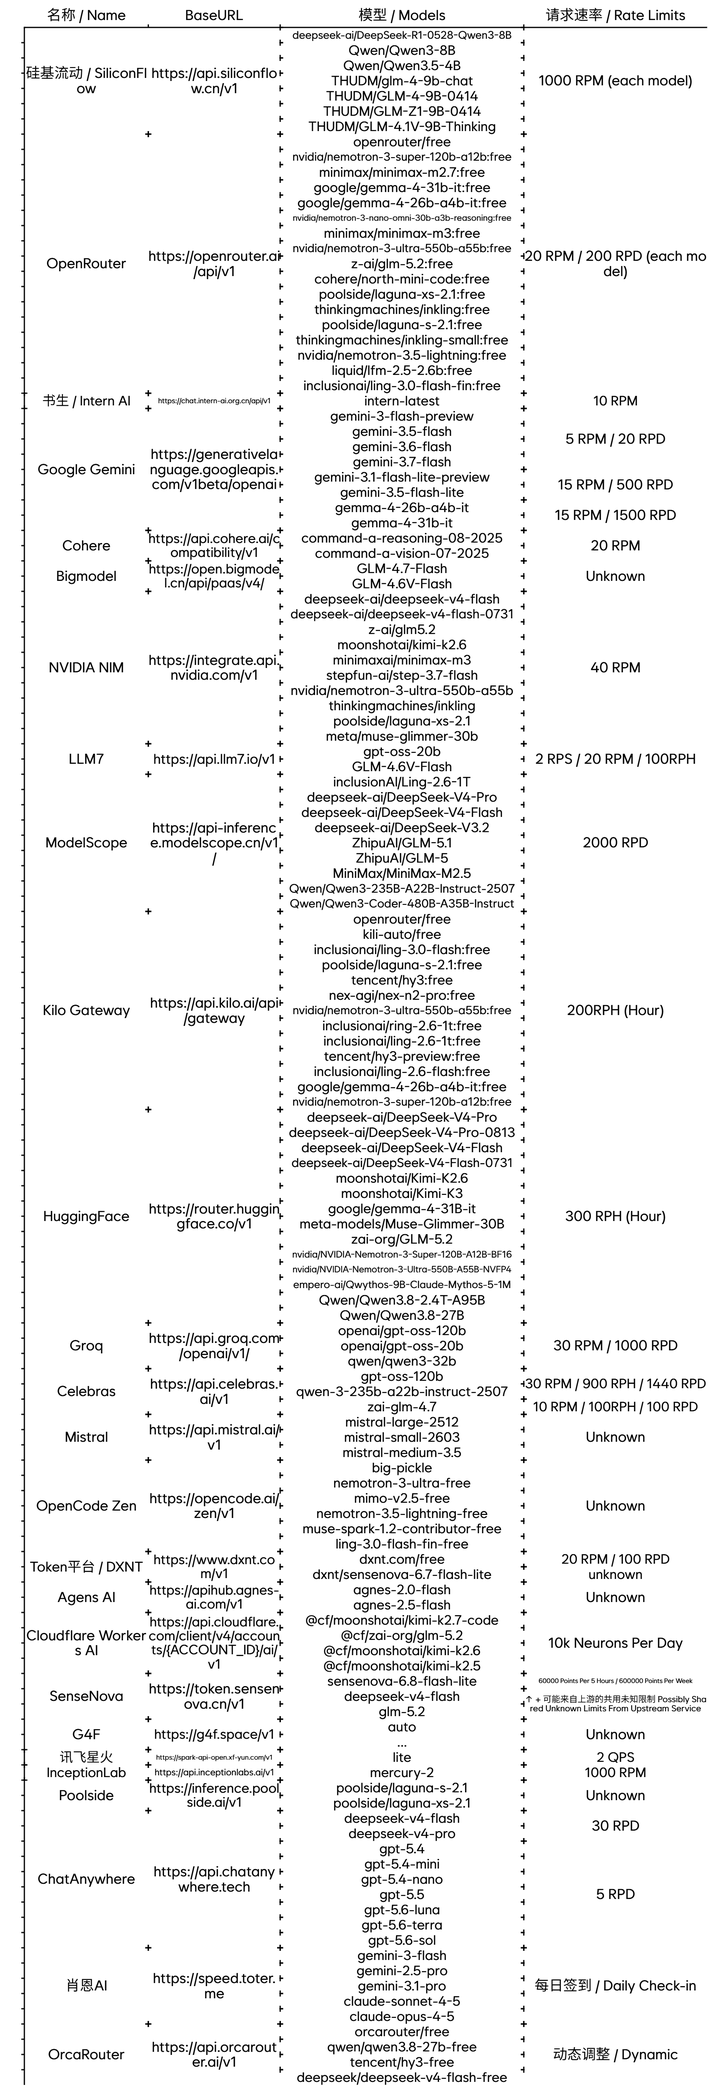
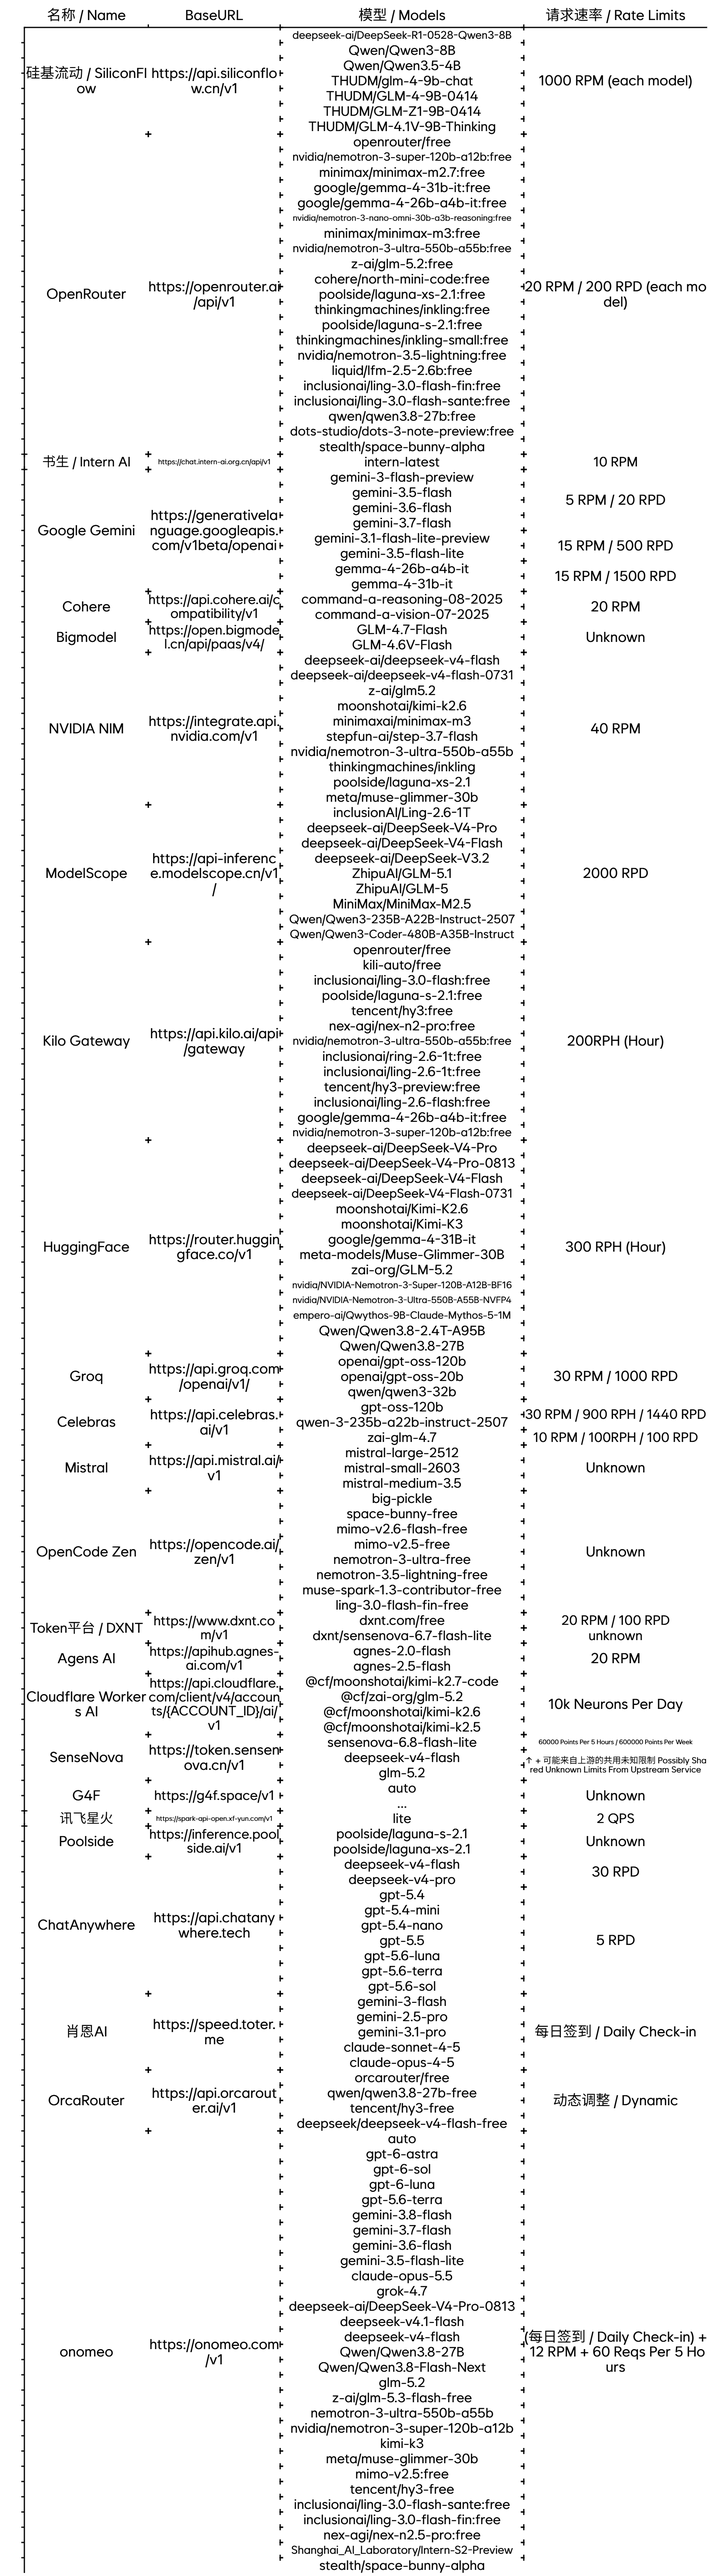
App flies yia Uplaod

diff --git a/README.md b/README.md
@@ -59,12 +59,16 @@ This data of the table was generated by LLM, Rendered by [Taple](https://t.ftz.i
   - `z-ai/glm-5.2:free`
   - `cohere/north-mini-code:free`
   - `poolside/laguna-xs-2.1:free`
-  - `thinkingmachines/inkling:free`
   - `poolside/laguna-s-2.1:free`
+  - `thinkingmachines/inkling:free`
   - `thinkingmachines/inkling-small:free`
   - `nvidia/nemotron-3.5-lightning:free`
   - `liquid/lfm-2.5-2.6b:free`
   - `inclusionai/ling-3.0-flash-fin:free`
+  - `inclusionai/ling-3.0-flash-sante:free`
+  - `qwen/qwen3.8-27b:free`
+  - `dots-studio/dots-3-note-preview:free`
+  - `stealth/space-bunny-alpha`
 
 ### [书生 / Intern AI](https://chat.intern-ai.org.cn)
 
@@ -130,14 +134,6 @@ This data of the table was generated by LLM, Rendered by [Taple](https://t.ftz.i
   - `thinkingmachines/inkling`
   - `poolside/laguna-xs-2.1`
   - `meta/muse-glimmer-30b`
-
-### [LLM7](https://llm7.io/)
-
-- **API:** [https://api.llm7.io/v1](https://api.llm7.io/v1)
-- **Rate Limits:** 2 RPS / 20 RPM / 100RPH
-- **Ava. Models:**
-  - `gpt-oss-20b`
-  - `GLM-4.6V-Flash`
 
 ### [ModelScope](https://modelscope.cn)
 
@@ -230,10 +226,12 @@ This data of the table was generated by LLM, Rendered by [Taple](https://t.ftz.i
 - **Rate Limit:** Unknown
 - **Ava. Models:**
   - `big-pickle`
-  - `nemotron-3-ultra-free`
+  - `space-bunny-free`
+  - `mimo-v2.6-flash-free`
   - `mimo-v2.5-free`
+  - `nemotron-3-ultra-free`
   - `nemotron-3.5-lightning-free`
-  - `muse-spark-1.2-contributor-free`
+  - `muse-spark-1.3-contributor-free`
   - `ling-3.0-flash-fin-free`
 
 ### [Token平台 / DXNT](https://dxnt.com)
@@ -250,7 +248,7 @@ This data of the table was generated by LLM, Rendered by [Taple](https://t.ftz.i
 ### [Agens AI](https://platform.agnes-ai.com/)
 
 - **API:** [https://apihub.agnes-ai.com/v1](https://apihub.agnes-ai.com/v1)
-- **Rate Limits:** Unknown
+- **Rate Limits:** 20 RPM
 - **Ava. Models:**
   - `agnes-2.0-flash`
   - `agnes-2.5-flash`
@@ -292,13 +290,6 @@ This data of the table was generated by LLM, Rendered by [Taple](https://t.ftz.i
 - **Rate Limits:** 2 QPS
 - **Ava. Models:**
   - `lite`
-
-### [InceptionLab](https://platform.inceptionlabs.ai/)
-
-- **API:** [https://api.inceptionlabs.ai/v1](https://api.inceptionlabs.ai/v1)
-- **Rate Limits:** 1000 RPM
-- **Ava. Models:**
-  - `mercury-2`
 
 ### [Poolside](https://platform.poolside.ai/)
 
@@ -350,6 +341,41 @@ This data of the table was generated by LLM, Rendered by [Taple](https://t.ftz.i
   - `qwen/qwen3.8-27b-free`
   - `tencent/hy3-free`
   - `deepseek/deepseek-v4-flash-free`
+
+### [onomeo](https://onomeo.com)
+
+- **API:** [https://onomeo.com/v1](https://onomeo.com/v1)
+- **Limits:** (每日签到 / Daily Check-in) + 12 RPM + 60 Reqs Per 5 Hours
+- **Rec. Models:**
+  - `auto`
+  - `gpt-6-astra`
+  - `gpt-6-sol`
+  - `gpt-6-luna`
+  - `gpt-5.6-terra`
+  - `gemini-3.8-flash`
+  - `gemini-3.7-flash`
+  - `gemini-3.6-flash`
+  - `gemini-3.5-flash-lite`
+  - `claude-opus-5.5`
+  - `grok-4.7`
+  - `deepseek-ai/DeepSeek-V4-Pro-0813`
+  - `deepseek-v4.1-flash`
+  - `deepseek-v4-flash`
+  - `Qwen/Qwen3.8-27B`
+  - `Qwen/Qwen3.8-Flash-Next`
+  - `glm-5.2`
+  - `z-ai/glm-5.3-flash-free`
+  - `nemotron-3-ultra-550b-a55b`
+  - `nvidia/nemotron-3-super-120b-a12b`
+  - `kimi-k3`
+  - `meta/muse-glimmer-30b`
+  - `mimo-v2.5:free`
+  - `tencent/hy3-free`
+  - `inclusionai/ling-3.0-flash-sante:free`
+  - `inclusionai/ling-3.0-flash-fin:free`
+  - `nex-agi/nex-n2.5-pro:free`
+  - `Shanghai_AI_Laboratory/Intern-S2-Preview`
+  - `stealth/space-bunny-alpha`
 
 ## 其它 / Other
 
